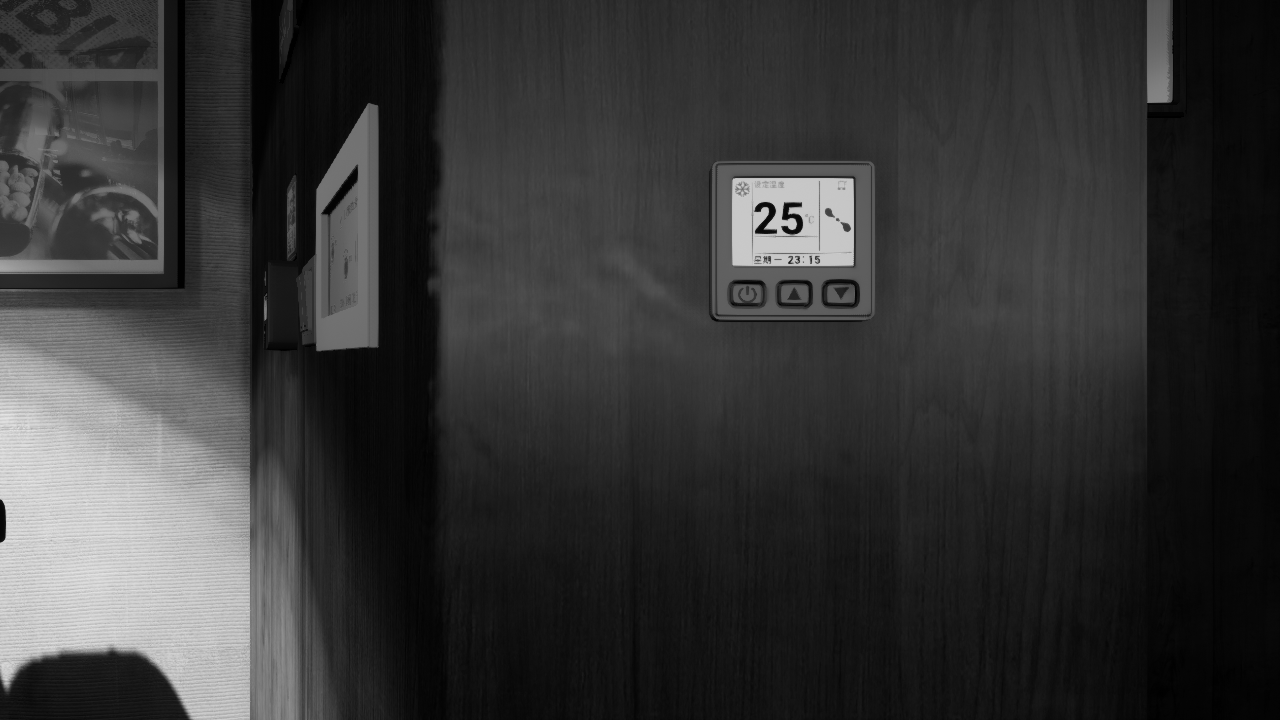
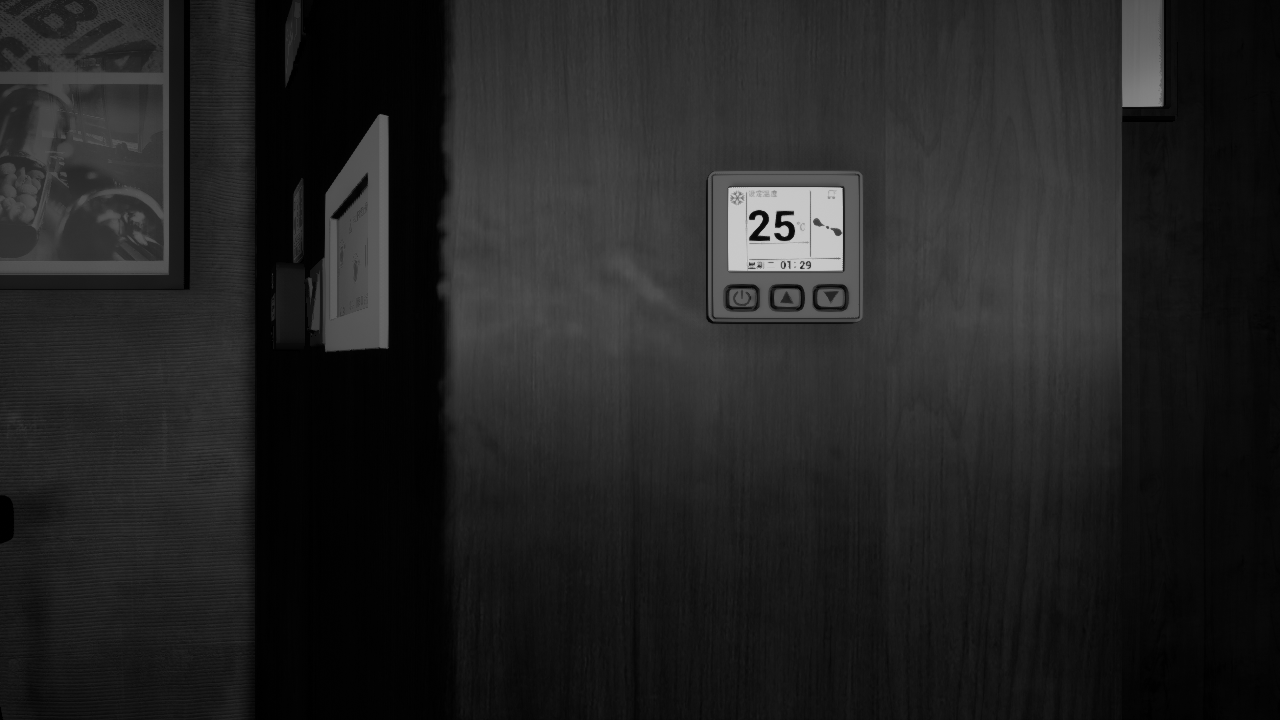
增加对话

diff --git a/VLM_container/InquireTempNeeds.py b/VLM_container/InquireTempNeeds.py
@@ -1,0 +1,124 @@
+import json
+
+import openai
+
+
+class InquireTempNeeds:
+    def __init__(self):
+        # 设置你的 OpenAI API 密钥
+        api_key = "sk-z2ztez3nzdjRerVojn5LcTSsE5JzXxuDWk3oRHvigO0RzPHV"
+        openai.api_base = "https://openkey.cloud/v1"
+        openai.api_key = api_key
+
+        self.conversation = []
+        self.final_return = []
+        # 询问座椅需求的对话流程
+        self.prompt_front = {'role': 'system', 'content': """
+               You are a cafe waiter robot that automatically collects seat order information for a Starbucks. 
+               Please let me know if the room temperature is suitable. Does it need to be adjusted? 
+               If so, do you want it higher or lower?
+
+              Format:
+               {
+                   "option": (options:'no', 'higher', 'lower','set')
+                   "temp": "A numerical value representing the temperature change in degrees"
+               }
+               
+               Please respond using the corresponding option along with the desired temperature change.
+           """}
+
+        self.conversation.append(self.prompt_front)
+        self.first_ask = {'role': 'assistant',
+                          'content': "Is the room temperature suitable? Does it need to be adjusted? "
+                                     "Does it need to be adjusted higher or lower? "}
+        self.conversation.append(self.prompt_front)
+        self.prompt_end = {'role': 'user',
+                           'content': """
+                           Conversation is finished. Please provide the Option and Temp number in JSON format.
+
+                           Format:
+                           {
+                               "option": (options:'no', 'higher', 'lower','set')
+                               "temp": "A numerical value representing the temperature change in degrees"
+                           }
+
+
+                           Example:
+                           User: It is ok.
+                           Return JSON: 
+                           {
+                               "option": "no",
+                               "temp": 0
+                           }
+                           User: I want to increase the temperature by 2 degrees.
+                           Return JSON: 
+                           {
+                               "option": "higher",
+                               "temp": 2
+                           }
+                           User: I want to decrease the temperature by 5 degrees.
+                           Return JSON: 
+                           {
+                               "option": "lower",
+                               "temp": 5
+                           }
+                           User: I want to set the temperature at 25 degrees.
+                           Return JSON: 
+                           {
+                               "option": "set",
+                               "temp": 25
+                           }
+                           """
+                           }
+
+    def get_message_completion(self, messages, model="gpt-3.5-turbo", temperature=0):
+        response = openai.ChatCompletion.create(
+            model=model,
+            messages=messages,
+            temperature=temperature,  # 控制模型输出的随机程度
+        )
+        return response.choices[0].message['content']
+
+    def get_json(self):
+        reply = self.get_message_completion(self.conversation, temperature=0)
+        print("response from gpt:\n", reply)
+
+        # Check if the content starts with '{' to identify JSON output
+        if str(reply).strip().startswith('{'):
+            try:
+                # Attempt to parse the content as JSON
+                order = json.loads(str(reply))
+                # If successful, return the JSON content
+                self.final_return = order
+            except json.JSONDecodeError:
+                # If parsing as JSON fails, let the model's response second time
+                try_again_prompt = f" Please provide valid JSON format.\n Response from the model: {str(reply)}"
+                self.final_return = json.loads(self.get_message_completion(try_again_prompt))
+
+        # Check if the content is an error message
+        else:
+            self.final_return = str(reply)
+
+        return self.final_return
+
+
+    def chat(self, temp):
+        count = 0
+        while True:
+            # 用户输入
+            if  count > 1:
+                print("===============corversation is over===============")
+                # 结束对话
+                self.conversation.append(self.prompt_end)
+                return self.conversation
+            else:
+                input_from_user = str(input("user:"))
+                # self.user.append({'role': 'user', 'content': input_from_user})
+                self.conversation.append({'role': 'user', 'content': input_from_user})
+
+                # 模型回复
+                reply = self.get_message_completion(self.conversation, temperature=temp)
+                self.conversation.append({'role': 'assistant', 'content': reply})
+                count += 1
+                print('robot:', reply)
+                # 判断是否结束对话

diff --git a/task4_scene.py b/task4_scene.py
@@ -1,6 +1,8 @@
 import time
 import cv2
 import numpy as np
+
+from DATA_Robot.VLM_container.InquireTempNeeds import InquireTempNeeds
 from DATA_Robot.utils.NavigationController import NavigationController
 from DATA_Robot.utils.RobotTaskController import RobotTaskController
 from DATA_Robot.utils.SceneManager import SceneManager
@@ -8,7 +10,6 @@ from DATA_Robot.utils.JointController import JointController
 from DATA_Robot.VLM_container.conditioner import Conditioner
 
 '''场景：机器人调节空调温度'''
-
 
 '''
 1. 场景生成
@@ -23,27 +24,26 @@ scene_manager.AcquireAvailableMaps()
 scene_manager.SetWorld(map_id, scene_num)
 time.sleep(5.0)
 print('------------ 场景操作 ------------')
-scene_manager.Reset(0)
+# scene_manager.Reset(0)
 scene = scene_manager.Observe(0)
-
 
 '''
 2. 关闭窗帘，开筒灯，开大厅灯
 '''
 task = RobotTaskController(scene_manager)
-task.close_curtains()
-time.sleep(2)  # 延时2秒
-task.turn_on_tube_light()
-time.sleep(2)  # 延时2秒
-task.turn_on_hall_light()
-time.sleep(2)  # 延时2秒
+# task.close_curtains()
+# time.sleep(2)  # 延时2秒
+# task.turn_on_tube_light()
+# time.sleep(2)  # 延时2秒
+# task.turn_on_hall_light()
+# time.sleep(2)  # 延时2秒
 
 '''
 3. 移动到空调附近
 '''
 nav = NavigationController(scene_manager)
-nav_threshhold = 10
-nav.navigate_to_limit(250.0, -148.0, 0, 100, 0)
+#250
+nav.navigate_to_limit(248.0, -148.0, 0, 100, 0)
 
 '''
 4. 打开空调
@@ -51,28 +51,42 @@ nav.navigate_to_limit(250.0, -148.0, 0, 100, 0)
 conditioner = Conditioner(scene_manager)
 conditioner.turn_on_container()
 
-
 '''
 4. 调整温度
 '''
-while True:
-    key = input(
-        "Robot:Is the room temperature suitable? Does it need to be adjusted? Does it need to be adjusted higher or "
-        "lower?\n option:no、higher、lower、set").lower().strip()
-    if key == "no":
-        print("OK!")
-        pass
-    elif key == "higher":
-        temp = input("Robot: How many degrees higher would you like to set the temperature? Please enter a number: ").lower().strip()
-        conditioner.Turn_up_temperature(int(temp))
-        continue
-    elif key == "lower":
-        temp = input( "Robot: How many degrees lower would you like to set the temperature? Please enter a number: ").lower().strip()
-        conditioner.Turn_down_temperature(int(temp))
-        continue
-    elif key == "set":
-        temp = input("Robot: What temperature would you like to set? Please enter a number: ").lower().strip()
-        conditioner.set_temperature(int(temp))
+# while True:
+#     key = input(
+#         "Robot:Is the room temperature suitable? Does it need to be adjusted? Does it need to be adjusted higher or "
+#         "lower?\n option:no、higher、lower、set").lower().strip()
+#     if key == "no":
+#         print("OK!")
+#         pass
+#     elif key == "higher":
+#         temp = input("Robot: How many degrees higher would you like to set the temperature? Please enter a number: ").lower().strip()
+#         conditioner.Turn_up_temperature(int(temp))
+#         continue
+#     elif key == "lower":
+#         temp = input( "Robot: How many degrees lower would you like to set the temperature? Please enter a number: ").lower().strip()
+#         conditioner.Turn_down_temperature(int(temp))
+#         continue
+#     elif key == "set":
+#         temp = input("Robot: What temperature would you like to set? Please enter a number: ").lower().strip()
+#         conditioner.set_temperature(int(temp))
 
+inquire = InquireTempNeeds()
+print("robot:Robot:Is the room temperature suitable? Does it need to be adjusted? Does it need to be adjusted higher "
+      "or lower?")
 
+inquire.chat(0)
+need = inquire.get_json()
+print(need)
 
+if need["option"]== "no":
+    print("OK!")
+    pass
+elif need["option"] == "higher":
+    conditioner.Turn_up_temperature(need["temp"])
+elif need["option"]== "lower":
+    conditioner.Turn_down_temperature(need["temp"])
+elif need["option"] == "set":
+    conditioner.set_temperature(need["temp"])

diff --git a/VLM_container/conditioner.py b/VLM_container/conditioner.py
@@ -15,6 +15,7 @@ class Conditioner():
         # 开关\加\减、111
         # 原来的
         self.key = [(300.00, -142.4999, 109.0), (300.00, -139.999, 109.0), (300.00, -137.0, 109.0)]
+        # self.key = [(300.50, -137.499, 111.0), (300.50, -139.999, 111.0), (300.50, -142.4999, 111.0)]
         self.delta_collision = 0.3
         self.scene_manager=scene_manager
         self.joint = JointController(self.scene_manager)
